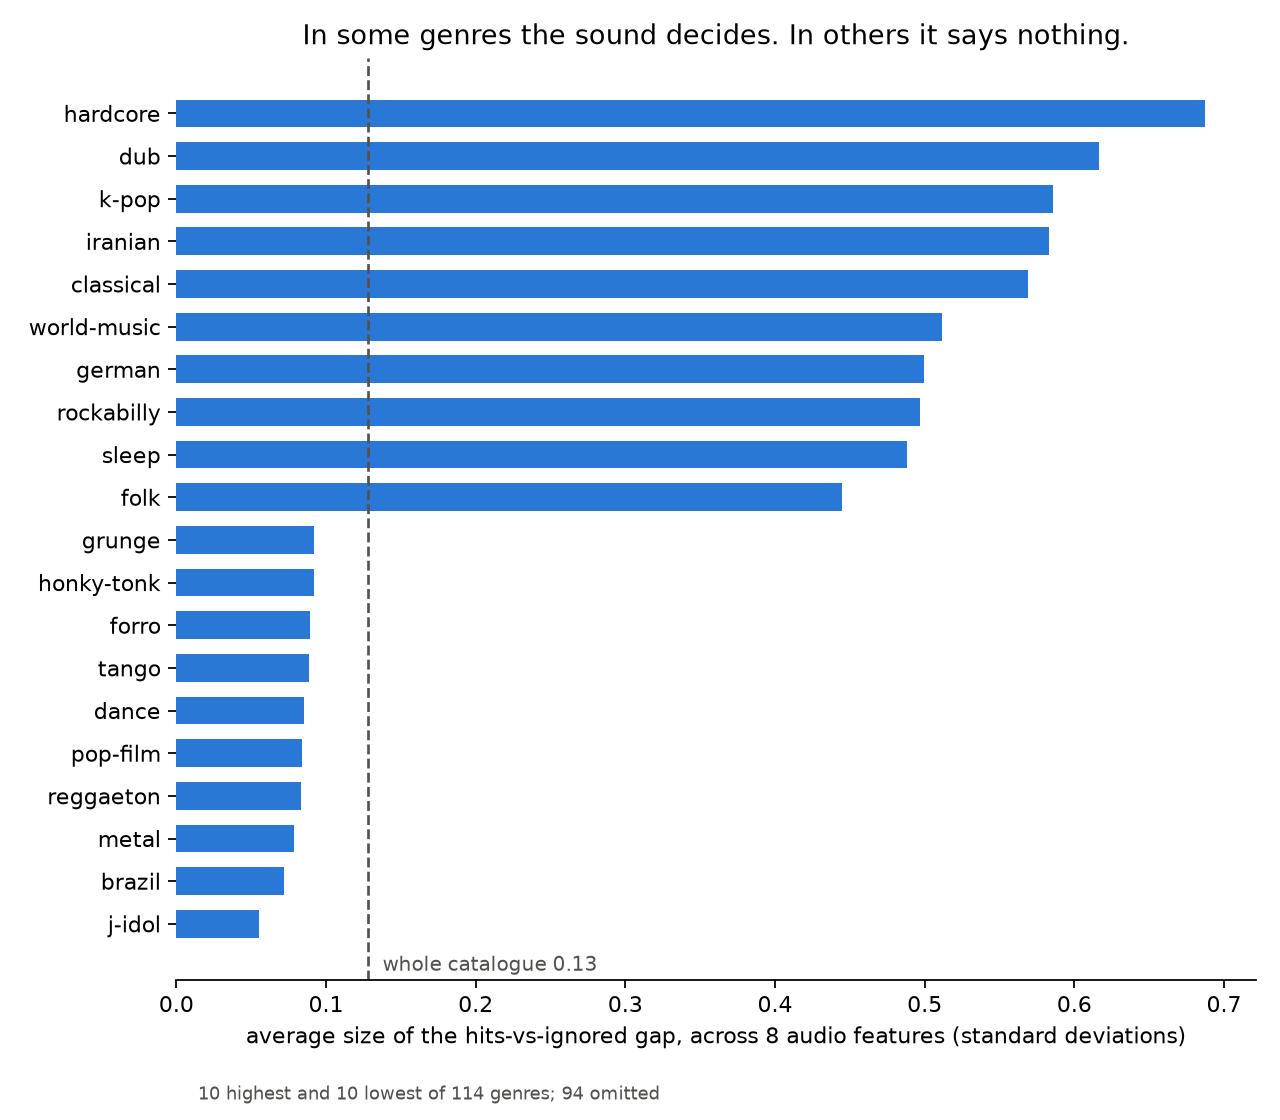
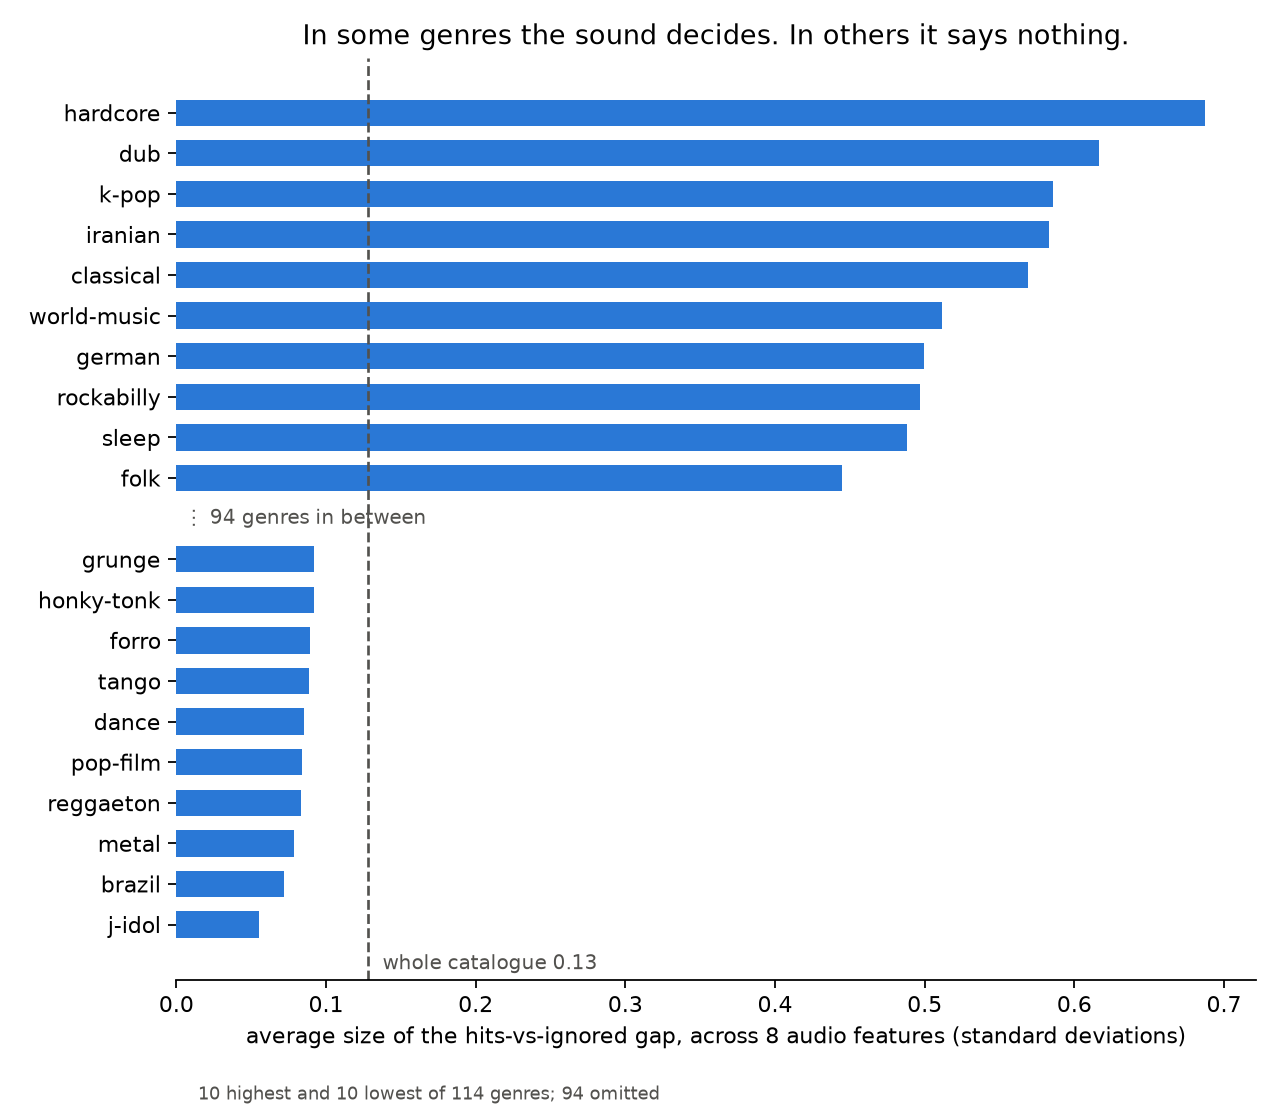
Show the 94 omitted genres as a visible gap in chart 3

Changed region(s): [[0.0312, 0.0938, 0.8438, 0.8125], [0.3125, 0.8438, 0.4688, 0.875]]

diff --git a/chart3.py b/chart3.py
@@ -12,10 +12,17 @@ by_genre = pd.Series({g: mean_abs_gap(sub)
                       for g, sub in tracks.groupby("track_genre")}).sort_values()
 catalogue = mean_abs_gap(tracks)
 
-shown = pd.concat([by_genre.head(10), by_genre.tail(10)])
+low = by_genre.head(10)
+high = by_genre.tail(10)
+low_slots = list(range(0, 10))
+high_slots = list(range(11, 21))
 
 fig, ax = plt.subplots(figsize=(8, 7))
-ax.barh(shown.index, shown.to_numpy(), height=0.65, color="#2a78d6")
+ax.barh(low_slots, low.to_numpy(), height=0.65, color="#2a78d6")
+ax.barh(high_slots, high.to_numpy(), height=0.65, color="#2a78d6")
+ax.set_yticks(low_slots + high_slots, list(low.index) + list(high.index))
+ax.text(0.005, 10, "⋮ 94 genres in between", va="center", fontsize=9, color="#52514e")
+
 ax.axvline(catalogue, color="#52514e", linestyle="--", linewidth=1.2)
 ax.text(catalogue + 0.01, -1.1, f"whole catalogue {catalogue:.2f}",
         color="#52514e", fontsize=9)
